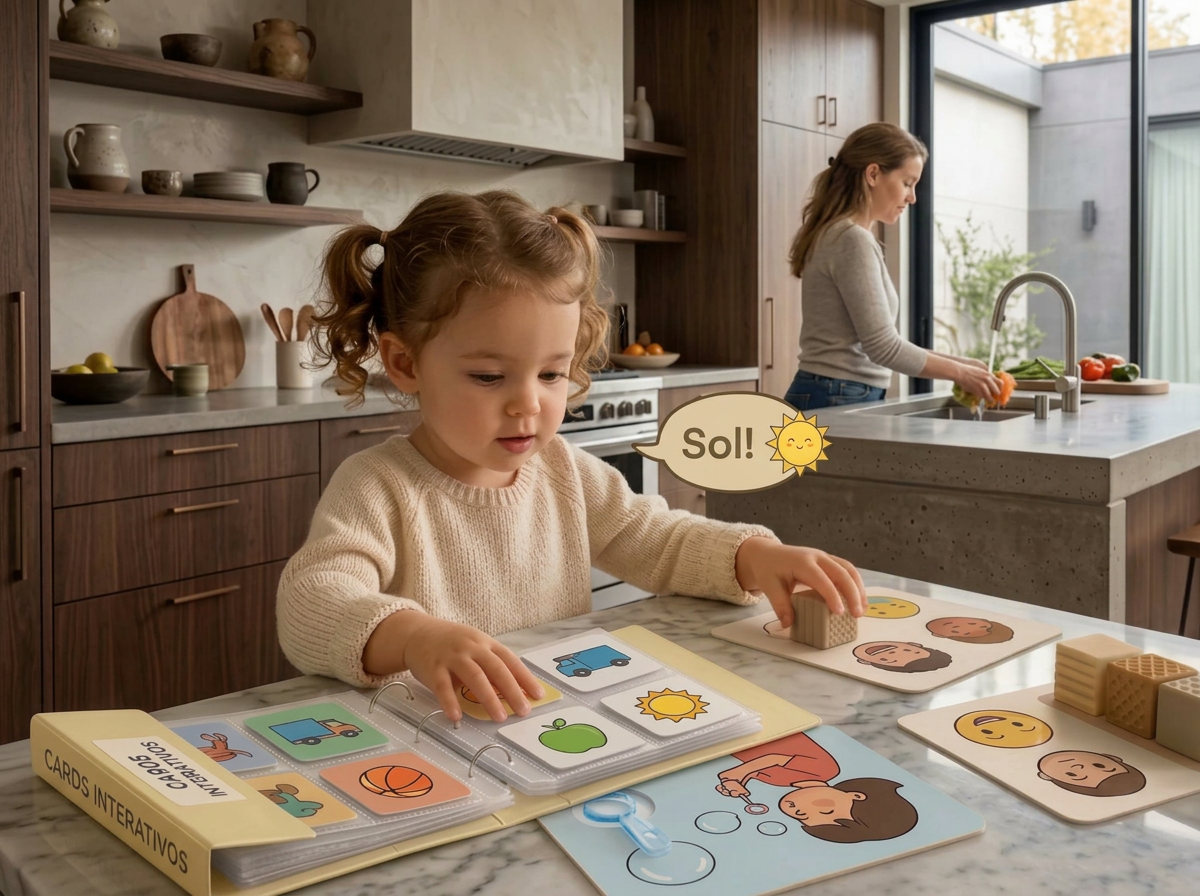
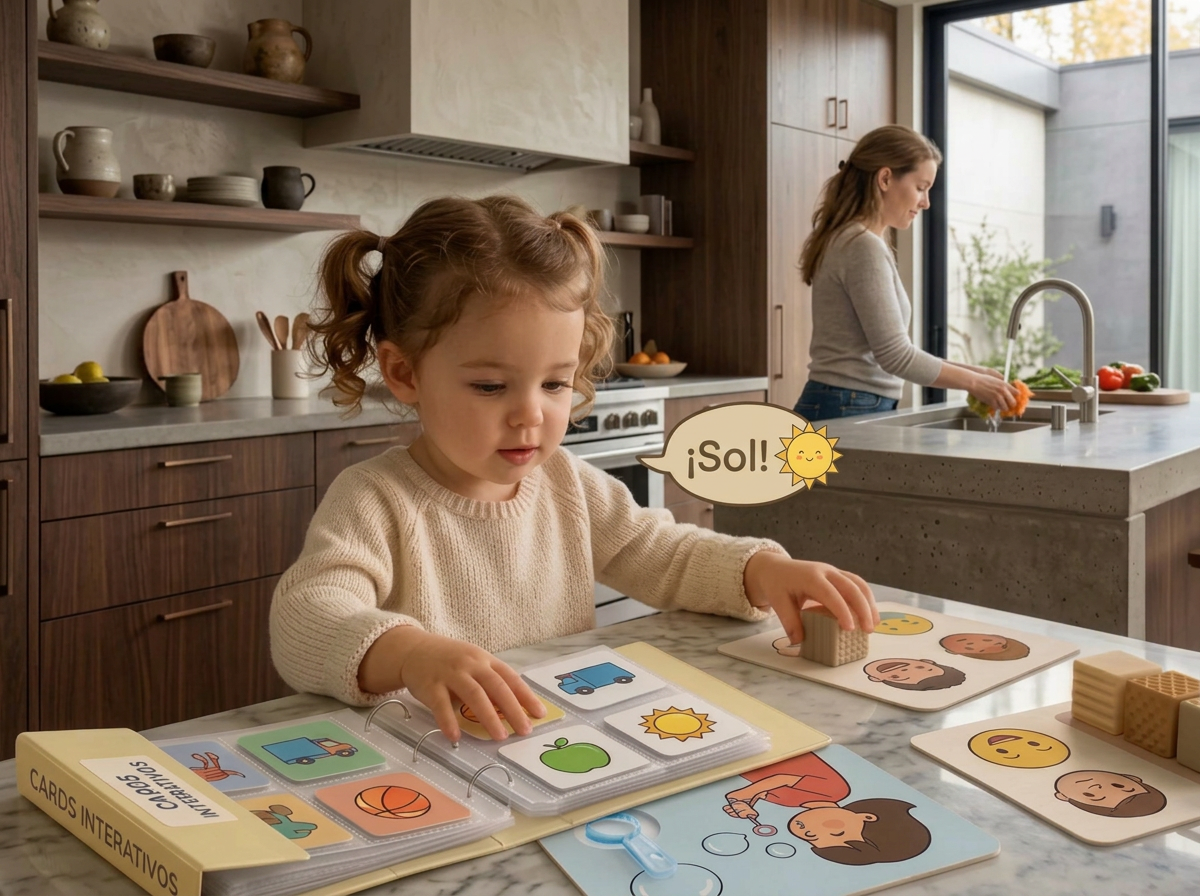
Changes

diff --git a/src/pages/V5.tsx b/src/pages/V5.tsx
@@ -16,7 +16,7 @@ import entregaTelas from "@/assets/entrega-telas.webp";
 import entregaSuporteWpp from "@/assets/entrega-suporte-wpp.webp";
 import bonusMusicas from "@/assets/bonus-musicas.webp";
 import bonusAulaVivo from "@/assets/bonus-aula-vivo.webp";
-import bonusCards from "@/assets/bonus-cards.webp";
+import bonusCards from "@/assets/bonus-cards-es.webp";
 import bonusCertificado from "@/assets/bonus-certificado-es.webp";
 import produtoMockup from "@/assets/mockup-mi-hijo-va-a-hablar.jpeg";
 import doisCaminhos from "@/assets/dois-caminhos-es.webp";
